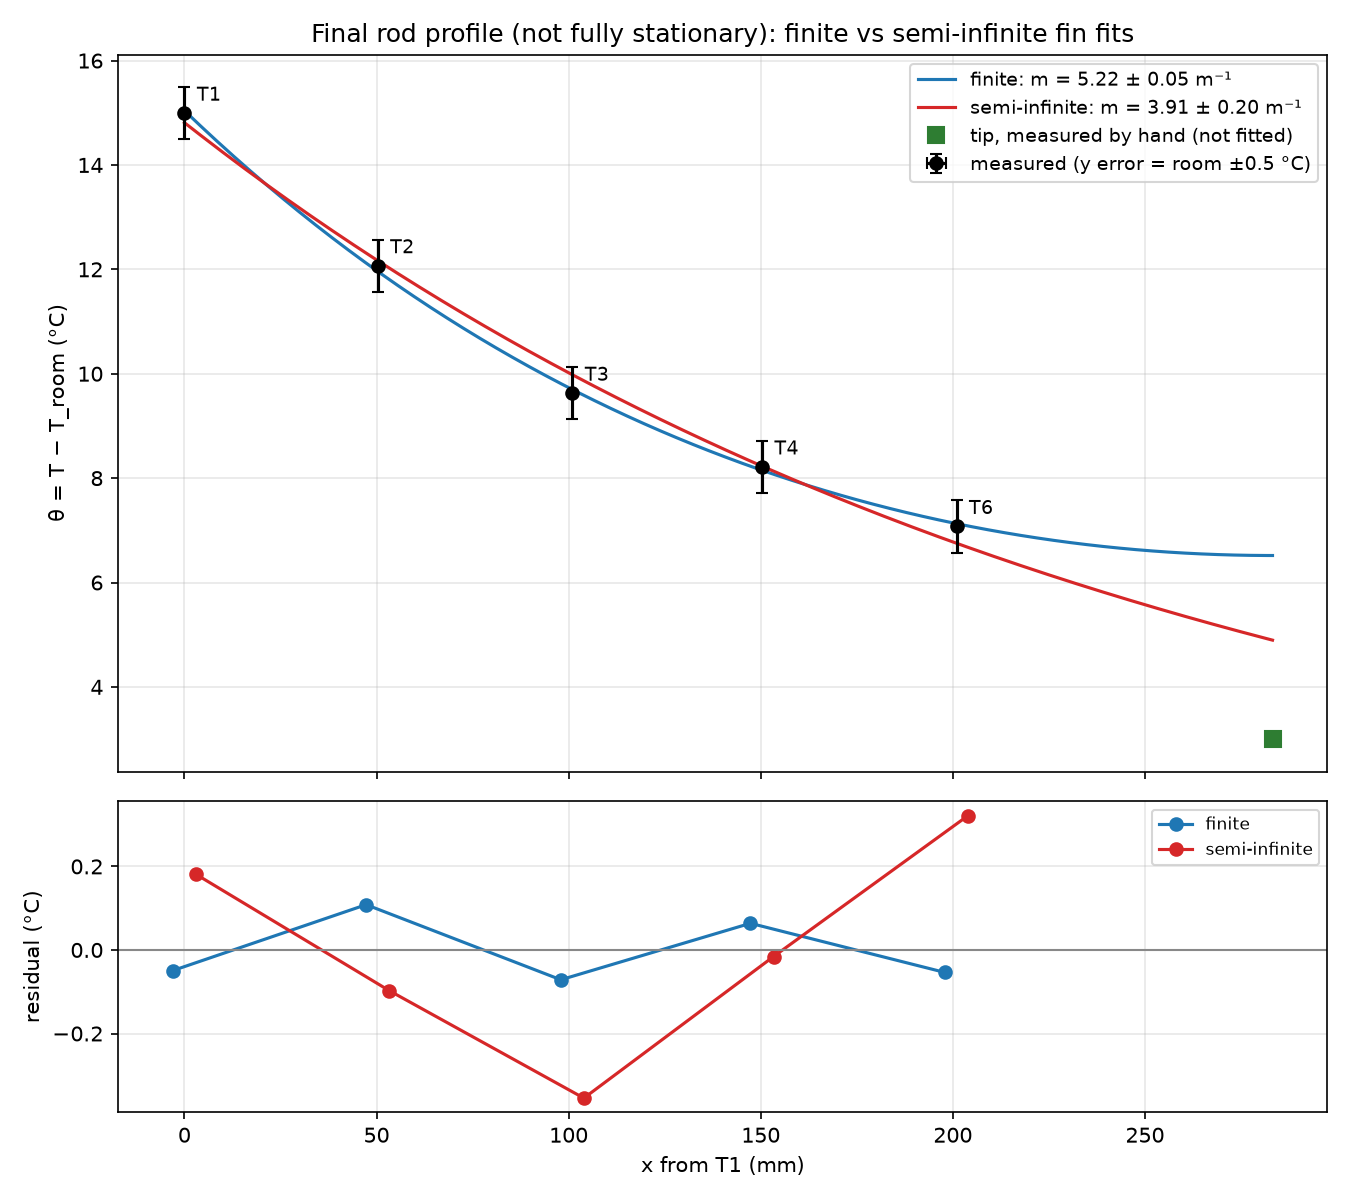
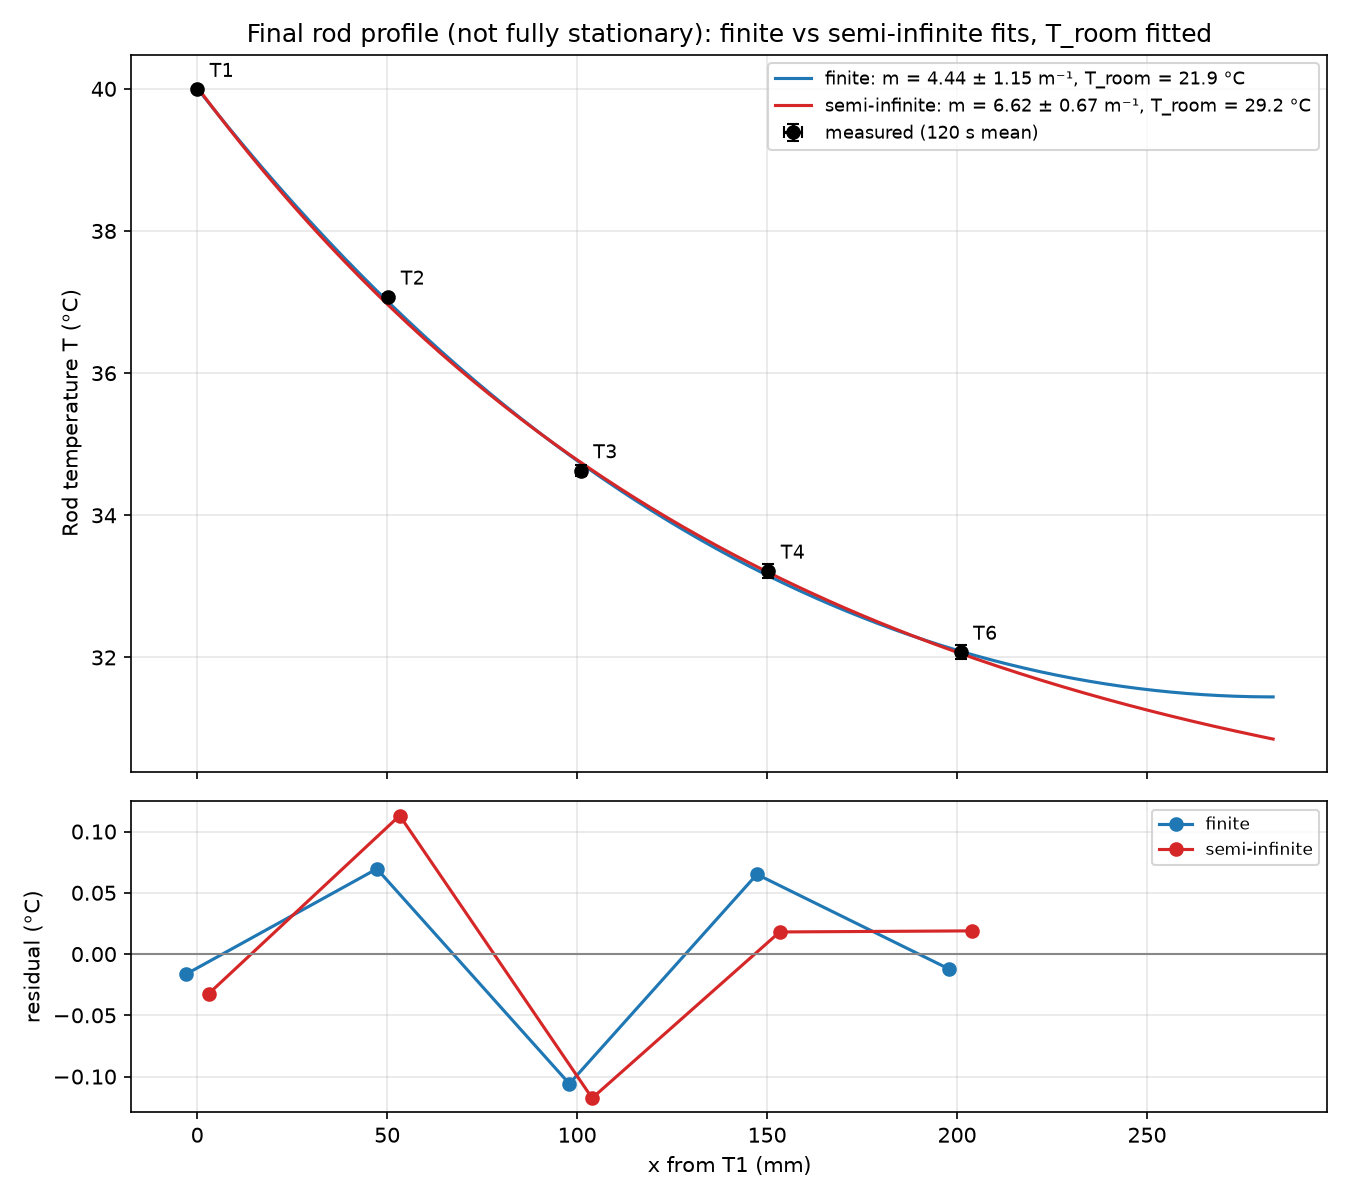
Module 7: refit profile with T_room as a free parameter; probe readings note-only

diff --git a/code/module7/stationary_fit.py b/code/module7/stationary_fit.py
@@ -1,13 +1,14 @@
 """Phase 5: fit the final rod profile with the finite (insulated-tip) and semi-infinite fin models.
 
-    python code/module7/stationary_fit.py RUN.csv --room 25 [--avg 120] [--u-room 0.5]
+    python code/module7/stationary_fit.py RUN.csv [--avg 120]
 
-theta = T - T_room, averaged over the last --avg seconds. Models (x from T1, L = T1 hole to tip):
-    finite:         theta0 * cosh(m (L - x)) / cosh(m L)
-    semi-infinite:  theta0 * exp(-m x)
-For each trial m, theta0 is solved by linear least squares; m is found on a fine grid.
-u(m) is the fit uncertainty (from SSR curvature, scaled by the residual scatter);
-the room-temperature shift of ±u-room is reported separately as a systematic.
+Uses only the five rod thermistors, averaged over the last --avg seconds. The ambient
+temperature is a fitted parameter, so no hand-held probe reading enters the analysis:
+    finite:         T(x) = T_room + theta0 * cosh(m (L - x)) / cosh(m L)
+    semi-infinite:  T(x) = T_room + theta0 * exp(-m x)
+x is measured from T1; L is the T1 hole to the tip. For each trial m, T_room and theta0
+are solved by linear least squares; m is found on a fine grid. u(m) comes from the SSR
+curvature, scaled by the residual scatter (3 parameters, 5 points).
 """
 import argparse
 import csv
@@ -30,32 +31,32 @@ MODELS = {'finite': lambda x, m: np.cosh(m * (L - x)) / np.cosh(m * L),
           'semi-infinite': lambda x, m: np.exp(-m * x)}
 
 
-def fit(theta, shape):
+def solve(T, shape, m):
+    """Best T_room, theta0 for a given m; returns (T_room, theta0, ssr, covariance scale)."""
+    A = np.column_stack([np.ones_like(X), shape(X, m)])
+    coef, *_ = np.linalg.lstsq(A, T, rcond=None)
+    res = T - A @ coef
+    return coef[0], coef[1], float(res @ res), np.linalg.inv(A.T @ A)
+
+
+def fit(T, shape):
     grid = np.linspace(0.5, 15, 29001)
-    best = None
-    for m in grid:
-        f = shape(X, m)
-        a = f @ theta / (f @ f)
-        ssr = np.sum((theta - a * f) ** 2)
-        if best is None or ssr < best[2]:
-            best = (m, a, ssr)
-    m, a, ssr = best
-    # Fit uncertainty from SSR curvature near the minimum (2 free parameters).
+    ssr = np.array([solve(T, shape, m)[2] for m in grid])
+    m = grid[np.argmin(ssr)]
+    t_room, a, s_min, cov = solve(T, shape, m)
     h = 1e-3
-    def s(mm):
-        f = shape(X, mm); return np.sum((theta - (f @ theta / (f @ f)) * f) ** 2)
-    curv = (s(m + h) - 2 * s(m) + s(m - h)) / h ** 2
-    s2 = ssr / (len(X) - 2)
-    return m, a, math.sqrt(2 * s2 / curv) if curv > 0 else math.nan, theta - a * shape(X, m)
+    curv = (solve(T, shape, m + h)[2] - 2 * s_min + solve(T, shape, m - h)[2]) / h ** 2
+    s2 = s_min / (len(X) - 3)
+    um = math.sqrt(2 * s2 / curv) if curv > 0 else math.nan
+    u_room = math.sqrt(s2 * cov[0, 0])  # at fixed m; a lower bound
+    res = T - (t_room + a * shape(X, m))
+    return m, um, t_room, u_room, a, res, grid[-1] - m < 1e-9 or m - grid[0] < 1e-9
 
 
 def main():
     parser = argparse.ArgumentParser(description=__doc__, formatter_class=argparse.RawDescriptionHelpFormatter)
     parser.add_argument('csv', type=Path)
-    parser.add_argument('--room', type=float, required=True)
-    parser.add_argument('--u-room', type=float, default=0.5)
     parser.add_argument('--avg', type=float, default=120)
-    parser.add_argument('--tip', type=float, help='Measured tip temperature (°C), shown for comparison only')
     parser.add_argument('--out', type=Path, default=REPO / 'docs/figures/module_07')
     args = parser.parse_args()
 
@@ -66,53 +67,47 @@ def main():
     win = t >= t[-1] - args.avg
     means, sds = T[win].mean(0), T[win].std(0, ddof=1)
     drift = np.array([np.polyfit(t[win], T[win][:, i], 1)[0] * 60 for i in range(5)])
-    theta = means - args.room
 
-    results = {'file': args.csv.name, 'window_s': [float(t[-1] - args.avg), float(t[-1])], 'room_C': args.room,
+    results = {'file': args.csv.name, 'window_s': [float(t[-1] - args.avg), float(t[-1])],
                'x_m': X.tolist(), 'T_mean_C': means.round(3).tolist(), 'T_sd_C': sds.round(3).tolist(),
-               'theta_C': theta.round(3).tolist(), 'drift_C_per_min': drift.round(3).tolist(), 'L_m': L, 'd_m': D}
-    print(f'{args.csv.name}: last {args.avg:.0f} s (t = {t[-1] - args.avg:.0f}–{t[-1]:.0f} s), room {args.room} °C')
-    for tag, x, Tm, th, dr in zip(TAGS, X, means, theta, drift):
-        print(f'  {tag}: x = {x * 1e3:6.2f} mm  T = {Tm:6.2f} °C  theta = {th:6.2f} °C  drift {dr:+.3f} °C/min')
+               'drift_C_per_min': drift.round(3).tolist(), 'L_m': L, 'd_m': D,
+               'note': 'T_room is fitted; hand-held probe readings (room 25 C, tip 28 C) are notes only.'}
+    print(f'{args.csv.name}: last {args.avg:.0f} s (t = {t[-1] - args.avg:.0f}–{t[-1]:.0f} s)')
+    for tag, x, Tm, dr in zip(TAGS, X, means, drift):
+        print(f'  {tag}: x = {x * 1e3:6.2f} mm  T = {Tm:6.2f} °C  drift {dr:+.3f} °C/min')
 
     fig, (ax, axr) = plt.subplots(2, 1, figsize=(9, 8), sharex=True, height_ratios=[3, 1.3])
-    ax.errorbar(X * 1e3, theta, xerr=U_X * 1e3, yerr=args.u_room, fmt='ko', capsize=3, zorder=5,
-                label=f'measured (y error = room ±{args.u_room} °C)')
+    ax.errorbar(X * 1e3, means, xerr=U_X * 1e3, yerr=sds, fmt='ko', capsize=3, zorder=5, label='measured (120 s mean)')
     xx = np.linspace(0, L, 200)
     for (name, shape), color, offset in zip(MODELS.items(), ('#1f77b4', '#d62728'), (-3, 3)):
-        m, a, um, res = fit(theta, shape)
-        m_lo = fit(means - (args.room + args.u_room), shape)[0]
-        m_hi = fit(means - (args.room - args.u_room), shape)[0]
-        sys_m = (abs(m_hi - m_lo)) / 2
-        results[name] = {'m_per_m': round(m, 3), 'u_fit': round(um, 3), 'u_room_sys': round(sys_m, 3),
-                         'theta0_C': round(a, 3), 'decay_length_m': round(1 / m, 4), 'mL': round(m * L, 3),
-                         'residuals_C': res.round(3).tolist(), 'rms_residual_C': round(float(np.sqrt(np.mean(res ** 2))), 3)}
-        print(f'\n{name}: m = {m:.2f} ± {um:.2f} (fit) ± {sys_m:.2f} (room) 1/m, 1/m = {100 / m:.1f} cm, '
-              f'mL = {m * L:.2f}, theta0 = {a:.2f} °C, rms residual = {np.sqrt(np.mean(res ** 2)):.3f} °C')
-        ax.plot(xx * 1e3, a * shape(xx, m), color=color, label=f'{name}: m = {m:.2f} ± {um:.2f} m⁻¹')
+        m, um, t_room, u_room, a, res, at_edge = fit(means, shape)
+        results[name] = {'m_per_m': round(m, 3), 'u_m': round(um, 3), 'T_room_fit_C': round(t_room, 2),
+                         'u_T_room_fixed_m': round(u_room, 2), 'theta0_C': round(a, 3),
+                         'decay_length_m': round(1 / m, 4), 'mL': round(m * L, 3),
+                         'residuals_C': res.round(3).tolist(),
+                         'rms_residual_C': round(float(np.sqrt(np.mean(res ** 2))), 3), 'm_at_grid_edge': bool(at_edge)}
+        print(f'\n{name}: m = {m:.2f} ± {um:.2f} 1/m, 1/m = {100 / m:.1f} cm, mL = {m * L:.2f}, '
+              f'T_room(fit) = {t_room:.2f} °C, theta0 = {a:.2f} °C, rms residual = {np.sqrt(np.mean(res ** 2)):.3f} °C'
+              + ('  [m at grid edge: not constrained]' if at_edge else ''))
+        ax.plot(xx * 1e3, t_room + a * shape(xx, m), color=color,
+                label=f'{name}: m = {m:.2f} ± {um:.2f} m⁻¹, T_room = {t_room:.1f} °C')
         axr.plot(X * 1e3 + offset, res, 'o-', color=color, label=name)
-    mf, ms = results['finite']['m_per_m'], results['semi-infinite']['m_per_m']
-    uf = math.hypot(results['finite']['u_fit'], results['finite']['u_room_sys'])
+    mf, uf = results['finite']['m_per_m'], results['finite']['u_m']
+    ms = results['semi-infinite']['m_per_m']
     results['shift_semi_minus_finite'] = round(ms - mf, 3)
     bi = (mf * D / 4) ** 2
-    u_bi = 2 * bi * uf / mf
-    results['Bi_perp'] = [bi, u_bi]
+    results['Bi_perp'] = [bi, 2 * bi * uf / mf]
     th_f = lambda x: np.cosh(mf * (L - x)) / np.cosh(mf * L)
     eps = np.abs(th_f(X) - np.exp(-mf * X)) / th_f(X)
     results['epsilon_T_percent'] = (eps * 100).round(1).tolist()
     print(f'\nShift (semi-infinite − finite) = {ms - mf:+.2f} 1/m vs finite uncertainty {uf:.2f} 1/m')
-    print(f'Bi_perp = (m d/4)^2 = {bi:.2e} ± {u_bi:.1e}')
+    print(f'Bi_perp = (m d/4)^2 = {bi:.2e} ± {2 * bi * uf / mf:.1e}')
     print('epsilon_T at sensors (%):', results['epsilon_T_percent'])
-    if args.tip is not None:
-        pred = results['finite']['theta0_C'] / np.cosh(mf * L)
-        results['tip'] = {'measured_theta_C': args.tip - args.room, 'finite_model_theta_C': round(float(pred), 2)}
-        print(f'Tip: measured theta = {args.tip - args.room:.1f} °C, finite model predicts {pred:.1f} °C')
-        ax.plot([L * 1e3], [args.tip - args.room], 's', color='#2e7d32', ms=8, label='tip, measured by hand (not fitted)')
 
-    for tag, x, th in zip(TAGS, X, theta):
-        ax.annotate(tag, (x * 1e3, th), textcoords='offset points', xytext=(6, 6), fontsize=9)
-    ax.set_ylabel('θ = T − T_room (°C)'); ax.grid(alpha=0.3); ax.legend(fontsize=9)
-    ax.set_title('Final rod profile (not fully stationary): finite vs semi-infinite fin fits')
+    for tag, x, Tm in zip(TAGS, X, means):
+        ax.annotate(tag, (x * 1e3, Tm), textcoords='offset points', xytext=(6, 6), fontsize=9)
+    ax.set_ylabel('Rod temperature T (°C)'); ax.grid(alpha=0.3); ax.legend(fontsize=8.5)
+    ax.set_title('Final rod profile (not fully stationary): finite vs semi-infinite fits, T_room fitted')
     axr.axhline(0, color='#888', lw=1); axr.set_ylabel('residual (°C)'); axr.set_xlabel('x from T1 (mm)')
     axr.grid(alpha=0.3); axr.legend(fontsize=8)
     fig.tight_layout()

diff --git a/docs/module_notes/module_07_rod_instrument.md b/docs/module_notes/module_07_rod_instrument.md
@@ -120,41 +120,34 @@ Raw CSV: `data/module_07/rod_raw_main_step_20to45_20261102_113833.csv`. PI (Kp =
 
 - **Baseline deviation:** the rod was not fully equilibrated at 20 °C. Rod channels were 18.6–21.3 °C and still cooling about 0.06–0.12 °C/min when the step started; the user judged it close enough.
 
-**Bench measurements during the run** (by the user, about 11:55, ~15 min after the step; method ___):
+**Note only, not used in any analysis:** at about 11:55 (~15 min after the step), a multimeter thermal probe read room ≈ **25 °C** and rod tip ≈ **28 °C**. At the same time T6 (x = 200.95 mm) logged 31.9 °C. These hand readings are kept as observations; the fits use only the five logged rod thermistors.
 
-| Quantity | Value |
-|---|---|
-| Room temperature | **25 °C** |
-| Rod tip temperature (x ≈ L = 283 mm) | **28 °C** |
-| T6 at the same time (x = 200.95 mm) | 31.9 °C (from the log) |
-
-- The tip is 3 °C above room, so the end of the rod is still losing heat. This is evidence for the tip boundary condition (Phase 5, Step 8), and consistent with the decay continuing past T6.
-- **Room temperature correction:** the pilot (section 6) assumed T_room = 23.5 °C. With 25 °C, the pilot ratio becomes θ(T6)/θ(T1) = (29.99 − 25)/(39.96 − 25) = **0.33**, which meets the ≤ 1/e = 0.37 placement target. Use the measured room temperature in Phase 5.
 - **Run ended early, with the instructor's approval** (about 18 min after the step, t = 1095 s): "life is short", so we did not wait for steady state. The final interval does **not** meet the |dT/dt| < 0.02 °C/min criterion; the analysis below uses this run's data as is.
 
 ## 8. Profile fits (Phase 5) on the final interval of the main run
 
-Window: last 120 s (t = 975–1095 s). Room 25 ± 0.5 °C. Code: `code/module7/stationary_fit.py`. Figure: `docs/figures/module_07/rod_raw_main_step_20to45_20261102_113833_fin_fits.png`. Numbers: `..._fin_fits.json`.
+Window: last 120 s (t = 975–1095 s). Data: the five rod thermistors only. **T_room is a fitted parameter**; the probe readings in section 7 are not used. Code: `code/module7/stationary_fit.py`. Figure: `docs/figures/module_07/rod_raw_main_step_20to45_20261102_113833_fin_fits.png`. Numbers: `..._fin_fits.json`.
 
-| Sensor | x (mm) | T (°C) | θ (°C) | Drift (°C/min) | ε_T with fitted m (%) |
-|---|---|---|---|---|---|
-| T1 | 0 | 39.99 | 14.99 | +0.017 | 0 |
-| T2 | 50.30 | 37.07 | 12.07 | +0.066 | 3.3 |
-| T3 | 100.96 | 34.63 | 9.63 | +0.130 | 8.5 |
-| T4 | 150.32 | 33.21 | 8.21 | +0.161 | 15.8 |
-| T6 | 200.95 | 32.07 | 7.07 | +0.170 | 26.1 |
-
-| Model | m (m⁻¹) | 1/m (cm) | mL | RMS residual (°C) |
+| Sensor | x (mm) | T (°C) | Drift (°C/min) | ε_T with fitted m (%) |
 |---|---|---|---|---|
-| Finite (insulated tip) | **5.22 ± 0.05 (fit) ± 0.16 (room)** | 19.1 | 1.48 | 0.07 |
-| Semi-infinite | 3.91 ± 0.20 (fit) ± 0.19 (room) | 25.6 | 1.11 | 0.23 |
+| T1 | 0 | 39.99 | +0.017 | 0 |
+| T2 | 50.30 | 37.07 | +0.066 | 4.0 |
+| T3 | 100.96 | 34.63 | +0.130 | 9.8 |
+| T4 | 150.32 | 33.21 | +0.161 | 17.3 |
+| T6 | 200.95 | 32.07 | +0.170 | 27.1 |
 
-- **Ignoring the tip shifts m by −1.31 m⁻¹,** about 8× the finite-fit uncertainty (0.17 m⁻¹). The semi-infinite residuals show a clear systematic arc; the finite residuals scatter about zero. The finite model is more adequate, consistent with ε_T > 5% from T3 on.
-- **Bi⊥ = (md/4)² = 2.8 × 10⁻⁴ ± 0.2 × 10⁻⁴** ≪ 0.1, so the rod is one-dimensional across its radius.
-- **Tip check:** measured θ_tip ≈ 3 °C (hand measurement at about 15 min) vs the finite-model prediction of 6.5 °C. The tip is cooler than an insulated tip, which suggests end loss. Caveats: the measurement was earlier and its method is not recorded.
-- **Not stationary:** the far sensors were still rising 0.13–0.17 °C/min, so the far end of the profile is low compared with the true steady state. That biases m high. This is the dominant limitation of this result.
-- **Compared with the prediction record:**
-  - The response order T1 → T6 and the shrinking amplitude were confirmed.
-  - A finite tip effect is visible.
-  - m = 5.2 m⁻¹ is larger than the predicted 4.3–4.6 m⁻¹ (h = 10, k = 150–170), which implies an effective h of about 13–15 W m⁻² K⁻¹ (hP/(kA) = m²).
-  - m alone cannot separate k from h, because only the ratio h/k enters m² = 4h/(kd).
+Models: T(x) = T_room + θ0·f(x), with f = cosh(m(L − x))/cosh(mL) (finite, insulated tip) or exp(−mx) (semi-infinite). There are 3 parameters and 5 points.
+
+| Model | m (m⁻¹) | 1/m (cm) | mL | Fitted T_room (°C) | RMS residual (°C) |
+|---|---|---|---|---|---|
+| Finite (insulated tip) | **4.4 ± 1.2** | 22.5 | 1.26 | 21.9 | 0.064 |
+| Semi-infinite | 6.6 ± 0.7 | 15.1 | 1.87 | 29.2 | 0.075 |
+
+- **Ignoring the tip shifts m by +2.2 m⁻¹,** about 1.9× the finite-fit uncertainty (1.2 m⁻¹).
+- **The models can't be told apart by residuals alone** (0.064 vs 0.075 °C; with 2 degrees of freedom both residual sets look random). The fitted T_room separates them: the semi-infinite fit needs T_room = 29 °C, which is **above** the far-end rod temperature trend and is not physical, so the finite model is more adequate. The finite model's T_room = 21.9 °C is plausible.
+- **Finite m vs prediction:** 4.4 ± 1.2 m⁻¹ agrees with the predicted 4.3–4.6 m⁻¹ (h = 10, k = 150–170). The large uncertainty comes from fitting T_room as well.
+- **Bi⊥ = (md/4)² = (2.0 ± 1.0) × 10⁻⁴** ≪ 0.1, so the rod is one-dimensional across its radius.
+- **ε_T** exceeds 5% from T3 on, so the semi-infinite approximation fails over the measured region.
+- **Not stationary (dominant limitation):** the far sensors were still rising 0.13–0.17 °C/min, so the profile is a late transient, not steady. This biases both m and the fitted T_room.
+- **Compared with the prediction record:** the response order T1 → T6 and the shrinking amplitude were confirmed, and the finite-tip effect is supported (via physical T_room). m alone cannot separate k from h, because only h/k enters m² = 4h/(kd).
+- **Superseded:** an earlier version of this section fixed T_room = 25 °C from the probe (finite m = 5.22 m⁻¹). It was replaced because the probe readings are notes only.
